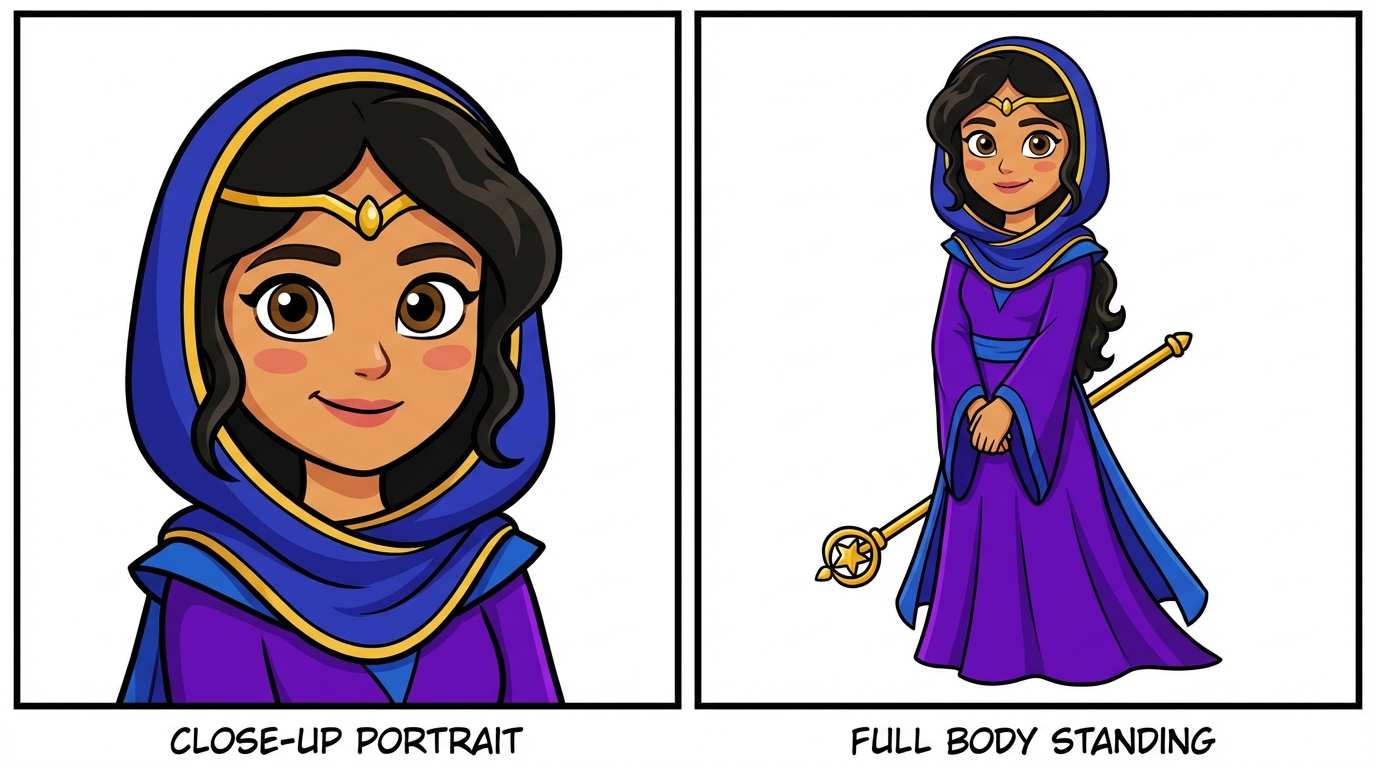
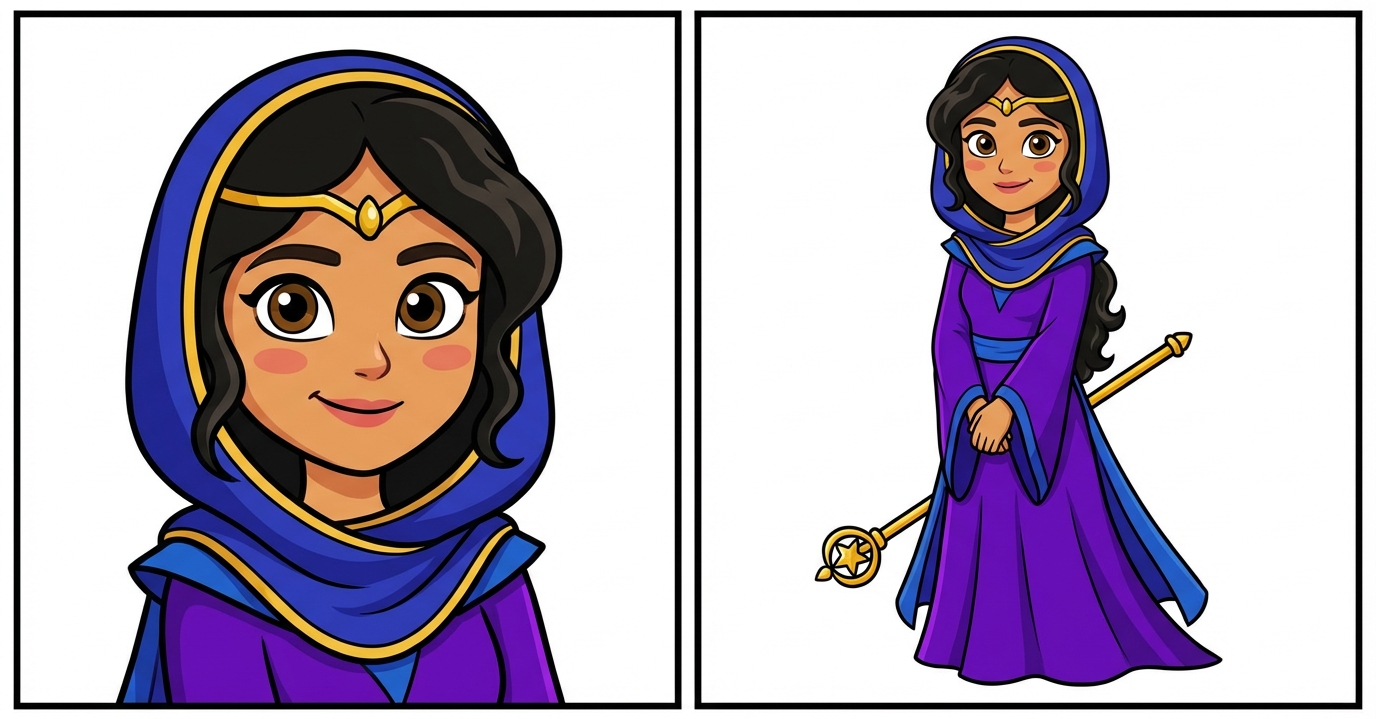
Adam & Chava identity sheets (Phase 3.2); Esther caption strip removed
4 calls at 2K ($0.404). Chosen v2 for both; v1 kept in alternates/.
Esther's caption strip cropped with Pillow (original in alternates/).

Changed region(s): [[0.0, 0.0, 1.0, 1.0]]

diff --git a/tests/test_character_library.py b/tests/test_character_library.py
@@ -23,7 +23,7 @@ from generate_images import MAX_CHARACTER_REFS, load_reference_images  # noqa: E
 # The real library in characters/
 # ---------------------------------------------------------------------------
 
-MIGRATED = ["moses", "yitro", "miriam", "esther", "mordechai", "haman", "achashverosh"]
+MIGRATED = ["moses", "yitro", "miriam", "esther", "mordechai", "haman", "achashverosh", "adam", "chava"]
 
 
 def test_every_character_yaml_is_valid():
@@ -43,12 +43,12 @@ def test_migrated_characters_have_identity_images(key):
 
 
 @pytest.mark.parametrize("key", ["adam", "chava"])
-def test_adam_and_chava_exist_without_identity_yet(key):
+def test_adam_and_chava_have_modest_anchors_and_alternates(key):
     character = character_library.load_character(key)
-    assert character["identity"] is None
-    assert character_library.identity_path(key) is None
+    assert character["identity"] == "identity.png"
     anchors = " ".join(character["visual_anchors"]).lower()
     assert "modest" in anchors and "full coverage" in anchors
+    assert (character_library.LIBRARY_DIR / key / "alternates" / "identity_v1.png").exists()
 
 
 def test_aliases_resolve_to_library_keys():

diff --git a/characters/README.md b/characters/README.md
@@ -12,7 +12,10 @@ characters/
 │   ├── identity.png       # identity sheet passed to the image model
 │   └── expressions.png    # optional extra sheets (also poses.png, turnaround.png)
 ├── adam/
-│   └── character.yaml     # identity: null — sheet not generated yet
+│   ├── character.yaml
+│   ├── identity.png
+│   ├── identity_prompt.txt  # exact prompt used for the sheet
+│   └── alternates/        # runner-up sheets (identity_v1.png ...)
 └── ...
 ```
 
@@ -50,16 +53,20 @@ characters/
 
 1. Make `characters/{key}/character.yaml` (copy one that exists). Start with `identity: null`
    and `canonical: false`.
-2. Generate 2+ identity sheets, Simon picks one, save it as `identity.png`.
-3. Set `identity: identity.png`, `canonical: true`, and run `python3 -m pytest tests -q`.
+2. Make 2 candidate sheets (3-angle turnaround + a row of 4 expressions, no text, style plate
+   `landscape` as Image 1). They are saved as `identity_v1.png`, `identity_v2.png`:
+   `cd src && python generate_references.py --character {key} --versions 2`
+3. Simon picks one: `python generate_references.py --character {key} --accept v2`. This renames it
+   to `identity.png`, moves the others to `alternates/`, and sets `identity: identity.png`.
+4. Set `canonical: true` and run `python3 -m pytest tests -q`.
 
 ## Current status
 
 | Character | Identity sheet | Canonical |
 |-----------|----------------|-----------|
 | moses, yitro, miriam | yes (+ expressions, poses, turnaround) | yes |
-| esther, mordechai, haman, achashverosh | yes | yes |
-| adam, chava | not yet (Phase 3.2) | yes (anchors locked) |
+| esther, mordechai, haman, achashverosh | yes (Esther's caption strip cropped off; original in `alternates/`) | yes |
+| adam, chava | yes (turnaround + expression row, 2026-10-05; runners-up in `alternates/`) | yes |
 | avraham, sarah, pharaoh | no | no (drafts from the old databases) |
 
 The archived decks still keep their own copies in `decks/archive/*/references/`, so they
